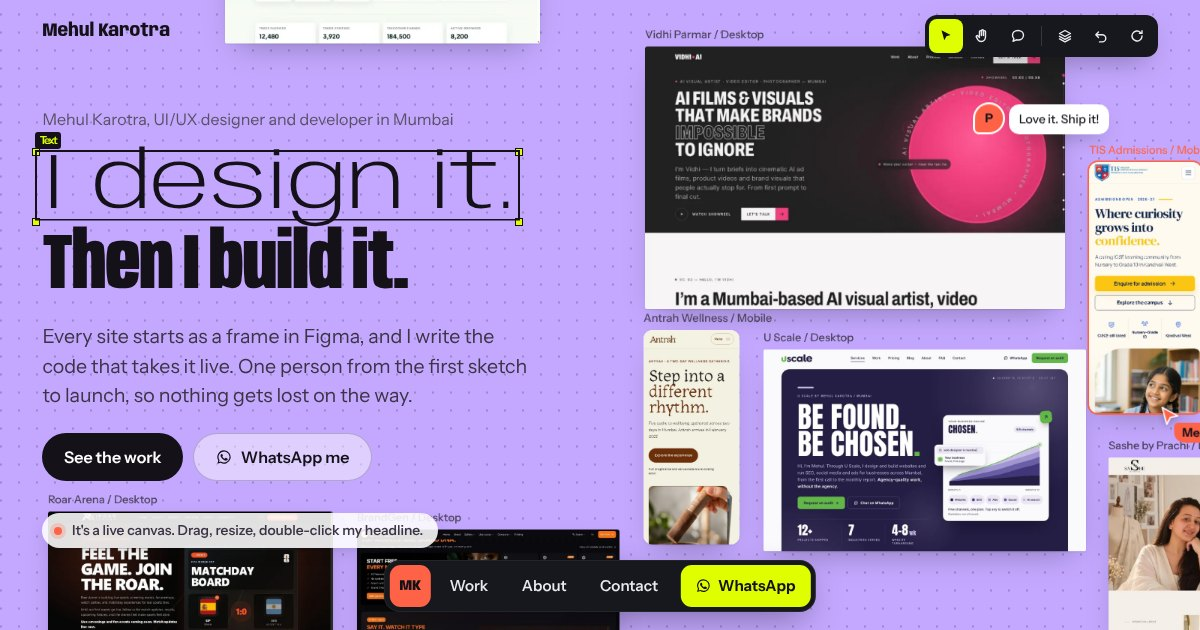
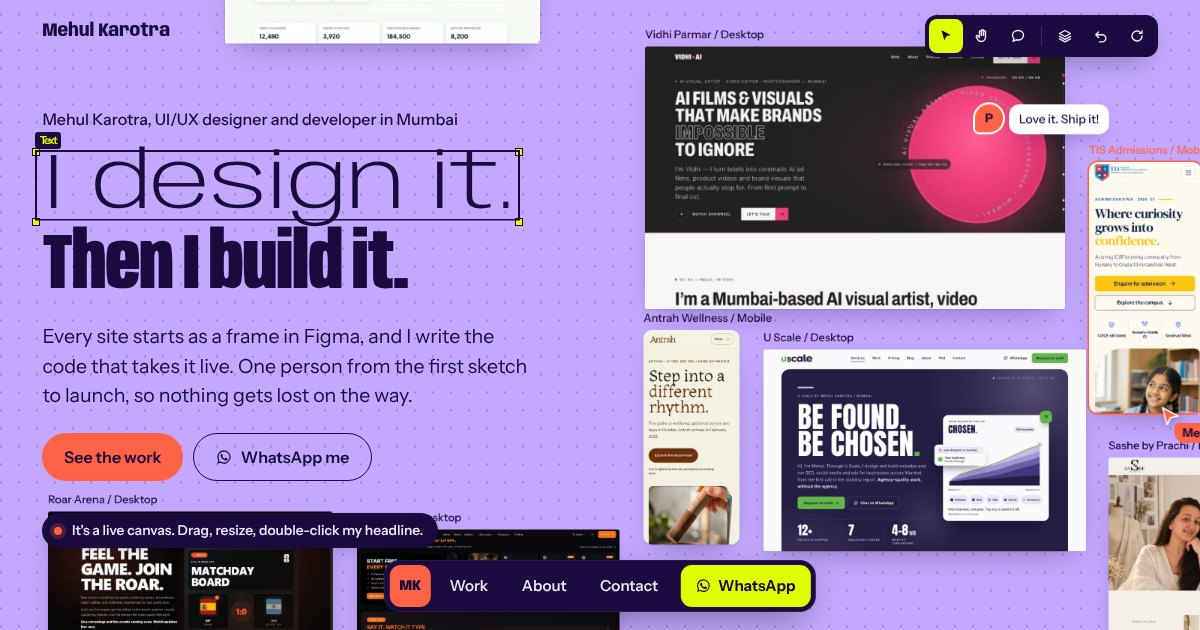
Colour system: deep violet instead of black, more tomato
- Text, lines and dark sections use a deep violet from the lavender family
- Tomato for the main button, project numbers, Selected work, badges,
  hover states and a full tomato contact section
- Every text/background pair checked for contrast (all 6:1 or better)

Claude-Session: https://claude.ai/code/session_01PnNqLetZa1qM7x4YyDRdo5

diff --git a/src/index.css b/src/index.css
@@ -6,13 +6,13 @@
   --tomato: #ff6347;     /* tomato: Mehul's cursor, accents */
   --paper: var(--lav);
   --paper-2: var(--lav-soft);
-  --ink: #141118;
-  --ink-2: #3b3445;
-  --mute: #5a5166;
-  --night: #121016;      /* work and contact */
-  --night-2: #1d1923;
-  --on-night: #f3effa;
-  --mute-n: #b8aecb;
+  --ink: #1a0a3d;        /* deep violet instead of black: text, lines */
+  --ink-2: #3a2770;
+  --mute: #4e3d86;
+  --night: #1b0b40;      /* dark sections, same violet family */
+  --night-2: #26134f;
+  --on-night: #f4efff;
+  --mute-n: #c9b8f5;
   --blue: var(--ink);    /* selection lines */
   --orange: var(--tomato);
   --display: 'Anybody Variable', 'Arial Narrow', system-ui, sans-serif;
@@ -33,7 +33,7 @@ p { margin: 0; }
 h1, h2, h3 { margin: 0; text-wrap: balance; }
 ul { margin: 0; padding: 0; list-style: none; }
 figure { margin: 0; }
-::selection { background: var(--chart); color: var(--ink); }
+::selection { background: var(--tomato); color: var(--ink); }
 :focus-visible { outline: 2px solid var(--tomato); outline-offset: 3px; border-radius: 4px; }
 .ic { width: 1em; height: 1em; flex: none; }
 .wrap { width: 100%; max-width: calc(var(--max) + 2 * var(--gutter)); margin-inline: auto; padding-inline: var(--gutter); }
@@ -50,16 +50,16 @@ figure { margin: 0; }
   font: 600 1rem/1 var(--sans); text-decoration: none; transition: transform 0.25s var(--ease), background-color 0.2s, color 0.2s, border-color 0.2s;
 }
 .btn:active { transform: scale(0.97); }
-.btn--ink { background: var(--ink); color: #fff; }
-.btn--ink:hover { background: #2a2d35; }
-.btn--line { border: 1.5px solid rgb(17 19 24 / 22%); color: var(--ink); background: rgb(255 255 255 / 45%); }
-.btn--line:hover { border-color: var(--ink); background: #fff; }
+.btn--ink { background: var(--tomato); color: var(--ink); }
+.btn--ink:hover { background: #ff7c64; }
+.btn--line { border: 1.5px solid var(--ink); color: var(--ink); background: transparent; }
+.btn--line:hover { border-color: var(--ink); background: var(--ink); color: var(--chart); }
 .btn--light { background: var(--chart); color: var(--ink); }
 .btn--light:hover { background: #ecff5c; }
-.btn--orange { background: var(--tomato); color: var(--ink); }
-.btn--orange:hover { background: #ff7b63; }
-.btn--line-light { border: 1.5px solid rgb(255 255 255 / 26%); color: #fff; }
-.btn--line-light:hover { border-color: #fff; }
+.btn--orange { background: var(--ink); color: var(--chart); }
+.btn--orange:hover { background: #2e1a63; }
+.btn--line-light { border: 1.5px solid var(--ink); color: var(--ink); }
+.btn--line-light:hover { background: var(--ink); color: var(--tomato); }
 
 /* Figma-style selection handles, used on frames and on the headline */
 .h { position: absolute; width: 8px; height: 8px; background: var(--chart); border: 1.5px solid var(--ink); opacity: 0; transition: opacity 0.2s; pointer-events: none; }
@@ -69,11 +69,11 @@ figure { margin: 0; }
 .wordmark { position: absolute; z-index: 20; left: var(--gutter); top: 1.35rem; font: 750 1.15rem/1 var(--display); font-stretch: 86%; color: var(--ink); text-decoration: none; letter-spacing: 0.005em; }
 .tools {
   position: fixed; z-index: 50; left: 50%; bottom: 1.1rem; transform: translateX(-50%); display: flex; align-items: center; gap: 0.2rem; padding: 0.35rem;
-  background: #16181d; border-radius: 16px; box-shadow: 0 12px 36px -10px rgb(0 0 0 / 45%), 0 0 0 1px rgb(255 255 255 / 6%) inset; transition: box-shadow 0.3s;
+  background: var(--night); border-radius: 16px; box-shadow: 0 12px 36px -10px rgb(0 0 0 / 45%), 0 0 0 1px rgb(255 255 255 / 6%) inset; transition: box-shadow 0.3s;
 }
 .tools.on-dark { box-shadow: 0 12px 36px -10px rgb(0 0 0 / 60%), 0 0 0 1px rgb(255 255 255 / 16%) inset; }
 .tools a { display: inline-flex; align-items: center; gap: 0.45rem; height: 2.6rem; padding: 0 0.95rem; border-radius: 11px; color: #e9ebf0; text-decoration: none; font: 550 0.95rem/1 var(--sans); transition: background-color 0.2s; }
-.tools a:hover { background: #2a2d35; }
+.tools a:hover { background: #2e1a63; }
 .tools .tools__mark { width: 2.6rem; padding: 0; justify-content: center; background: var(--tomato); color: var(--ink); font: 800 0.9rem/1 var(--display); font-stretch: 90%; }
 .tools .tools__mark:hover { background: #ff7b63; }
 .tools .tools__wa { background: var(--chart); color: var(--ink); margin-left: 0.25rem; font-weight: 650; }
@@ -84,17 +84,17 @@ figure { margin: 0; }
 .hero__stage {
   position: sticky; top: 0; height: 100svh; overflow: hidden; contain: paint;
   background-color: var(--paper);
-  background-image: radial-gradient(circle at 1px 1px, rgb(20 17 24 / 22%) 1px, transparent 1.3px);
+  background-image: radial-gradient(circle at 1px 1px, rgb(26 10 61 / 22%) 1px, transparent 1.3px);
   background-size: 24px 24px;
 }
 .board { position: absolute; left: 0; top: 0; transform-origin: 0 0; will-change: transform; }
 .fr { position: absolute; animation: frIn 0.9s var(--ease) both; opacity: var(--fade, 1); }
 .fr--hero { opacity: 1; }
 @keyframes frIn { from { opacity: 0; translate: 0 18px; } }
-.fr img { width: 100%; aspect-ratio: 16 / 10; object-fit: cover; object-position: top; border-radius: 3px; background: #fff; box-shadow: 0 1px 2px rgb(17 19 24 / 10%), 0 18px 40px -18px rgb(17 19 24 / 35%); }
+.fr img { width: 100%; aspect-ratio: 16 / 10; object-fit: cover; object-position: top; border-radius: 3px; background: #fff; box-shadow: 0 1px 2px rgb(26 10 61 / 10%), 0 18px 40px -18px rgb(26 10 61 / 35%); }
 .fr--mob img { aspect-ratio: 360 / 805; border-radius: 12px; }
 .fr figcaption, .fr__size { position: absolute; left: 0; font: 500 11px/1 var(--sans); white-space: nowrap; transform: scale(var(--s, 1)); }
-.fr figcaption { bottom: 100%; padding-bottom: 6px; color: #4b4158; transform-origin: 0 100%; }
+.fr figcaption { bottom: 100%; padding-bottom: 6px; color: var(--ink); transform-origin: 0 100%; }
 .fr__size { top: 100%; left: 50%; margin-top: 6px; padding: 3px 5px; border-radius: 3px; background: var(--ink); color: var(--chart); transform-origin: 0 0; translate: -50% 0; opacity: 0; transition: opacity 0.2s; }
 .fr.is-sel img { outline: 2px solid var(--ink); outline-offset: 0; }
 .fr.is-sel figcaption { color: var(--ink); font-weight: 650; }
@@ -102,12 +102,12 @@ figure { margin: 0; }
 .fr .h { transform: scale(var(--s, 1)); }
 .pin { position: absolute; right: -14px; top: 22%; display: flex; align-items: flex-start; gap: 6px; transform: scale(var(--s, 1)); transform-origin: 0 0; animation: frIn 0.8s 1.6s var(--ease) both; }
 .pin b { display: grid; place-items: center; width: 28px; height: 28px; border-radius: 50% 50% 50% 4px; background: var(--tomato); color: var(--ink); font: 700 12px/1 var(--sans); box-shadow: 0 0 0 2px #fff; }
-.pin span { background: #fff; color: var(--ink); font: 500 12px/1.3 var(--sans); padding: 7px 10px; border-radius: 10px; box-shadow: 0 8px 22px -8px rgb(17 19 24 / 35%); white-space: nowrap; }
+.pin span { background: #fff; color: var(--ink); font: 500 12px/1.3 var(--sans); padding: 7px 10px; border-radius: 10px; box-shadow: 0 8px 22px -8px rgb(26 10 61 / 35%); white-space: nowrap; }
 
 .hero__copy { position: absolute; inset: 0 0 auto 0; z-index: 4; padding-top: clamp(5.5rem, 17vh, 10rem); pointer-events: none; will-change: transform, opacity; }
 .hero__copy > * { max-width: min(44rem, 50vw); }
 .hero__copy a { pointer-events: auto; }
-.eyebrow { font-size: 1rem; color: var(--mute); margin-bottom: clamp(1rem, 3vh, 1.8rem); }
+.eyebrow { font-size: 1rem; color: var(--ink); font-weight: 500; margin-bottom: clamp(1rem, 3vh, 1.8rem); }
 .hero .display { font-size: clamp(3rem, 0.4rem + 6vw, 7.2rem); display: grid; justify-items: start; gap: 0.12em; }
 .h-sel { position: relative; font-stretch: 128%; font-weight: 300; letter-spacing: -0.02em; padding: 0 0.08em; margin-left: -0.08em; }
 .h-sel::after { content: ''; pointer-events: none; position: absolute; inset: -0.02em -0.02em 0.02em; border: 2px solid var(--ink); clip-path: inset(0 100% 0 0); transition: clip-path 0.55s var(--ease); }
@@ -116,9 +116,9 @@ figure { margin: 0; }
 .h-badge { position: absolute; left: -1.5px; bottom: 100%; margin-bottom: 0.18rem; font: 600 11px/1 var(--sans); background: var(--ink); color: var(--chart); padding: 3px 5px; border-radius: 3px; opacity: 0; transition: opacity 0.3s 0.45s; }
 .h-sel.is-on .h-badge { opacity: 1; }
 .h-two { font-stretch: 62%; font-weight: 850; }
-.hero .lead { margin: clamp(1.2rem, 3.2vh, 2rem) 0 clamp(1.4rem, 3.6vh, 2.2rem); color: var(--ink-2); max-width: 31rem; }
+.hero .lead { margin: clamp(1.2rem, 3.2vh, 2rem) 0 clamp(1.4rem, 3.6vh, 2.2rem); color: var(--ink); max-width: 31rem; }
 
-.hero__hint { position: absolute; z-index: 4; left: var(--gutter); bottom: 5.1rem; display: flex; align-items: center; gap: 0.6rem; padding: 0.55rem 0.9rem 0.55rem 0.75rem; border-radius: 999px; background: rgb(255 255 255 / 88%); box-shadow: 0 6px 20px -10px rgb(17 19 24 / 35%); font: 550 0.86rem/1.3 var(--sans); color: var(--ink-2); opacity: var(--cur, 1); }
+.hero__hint { position: absolute; z-index: 4; left: var(--gutter); bottom: 5.1rem; display: flex; align-items: center; gap: 0.6rem; padding: 0.55rem 0.9rem 0.55rem 0.75rem; border-radius: 999px; background: var(--ink); box-shadow: 0 6px 20px -10px rgb(26 10 61 / 35%); font: 550 0.86rem/1.3 var(--sans); color: var(--lav-soft); opacity: var(--cur, 1); }
 .hero__hint i { width: 8px; height: 8px; border-radius: 50%; background: var(--orange); box-shadow: 0 0 0 4px rgb(255 99 71 / 22%); }
 .for-touch { display: none; }
 @media (hover: none) { .for-mouse { display: none; } .for-touch { display: inline; } }
@@ -154,19 +154,19 @@ figure { margin: 0; }
 .h-sel.is-editing::after { border-width: 2px; }
 .h-sel.is-editing .h-sel__text { background: rgb(223 255 0 / 55%); }
 .h-two { position: relative; cursor: not-allowed; }
-.h-lock { position: absolute; left: 100%; top: 50%; margin: -0.26em 0 0 0.18em; display: grid; place-items: center; width: 0.52em; height: 0.52em; border-radius: 0.12em; background: #fff; color: var(--ink); box-shadow: 0 4px 14px -6px rgb(17 19 24 / 40%); opacity: 0; scale: 0.7; transition: opacity 0.2s, scale 0.25s var(--ease); }
+.h-lock { position: absolute; left: 100%; top: 50%; margin: -0.26em 0 0 0.18em; display: grid; place-items: center; width: 0.52em; height: 0.52em; border-radius: 0.12em; background: #fff; color: var(--ink); box-shadow: 0 4px 14px -6px rgb(26 10 61 / 40%); opacity: 0; scale: 0.7; transition: opacity 0.2s, scale 0.25s var(--ease); }
 .h-lock .ci { width: 52%; height: 52%; }
 .h-two:hover .h-lock, .h-two:active .h-lock { opacity: 1; scale: 1; }
 
 .ui { position: absolute; z-index: 7; font: 500 12px/1.3 var(--sans); }
-.ctools { top: 0.95rem; right: var(--gutter); display: flex; align-items: center; gap: 2px; padding: 4px; border-radius: 12px; background: #16181d; box-shadow: 0 10px 30px -12px rgb(0 0 0 / 50%); opacity: var(--cur, 1); }
+.ctools { top: 0.95rem; right: var(--gutter); display: flex; align-items: center; gap: 2px; padding: 4px; border-radius: 12px; background: var(--night); box-shadow: 0 10px 30px -12px rgb(0 0 0 / 50%); opacity: var(--cur, 1); }
 .ctools button { display: grid; place-items: center; width: 34px; height: 34px; border: 0; border-radius: 8px; background: transparent; color: #e9ebf0; cursor: pointer; transition: background-color 0.15s; }
-.ctools button:hover { background: #2a2d35; }
+.ctools button:hover { background: #2e1a63; }
 .ctools button.is-on { background: var(--chart); color: var(--ink); }
 .ctools__sep { width: 1px; height: 20px; margin: 0 4px; background: rgb(255 255 255 / 14%); }
 .is-scrolled .ui { visibility: hidden; }
 
-.panel { width: 248px; background: #fff; color: var(--ink); border-radius: 12px; box-shadow: 0 1px 0 rgb(17 19 24 / 6%), 0 18px 44px -14px rgb(17 19 24 / 40%); overflow: hidden; animation: panelIn 0.25s var(--ease) both; }
+.panel { width: 248px; background: #fff; color: var(--ink); border-radius: 12px; box-shadow: 0 1px 0 rgb(26 10 61 / 6%), 0 18px 44px -14px rgb(26 10 61 / 40%); overflow: hidden; animation: panelIn 0.25s var(--ease) both; }
 @keyframes panelIn { from { opacity: 0; translate: 0 -6px; } }
 .panel button { font: inherit; color: inherit; cursor: pointer; }
 .panel__head { display: flex; align-items: center; justify-content: space-between; padding: 10px 10px 10px 14px; border-bottom: 1px solid #ecebe8; font-weight: 650; font-size: 12.5px; }
@@ -193,16 +193,16 @@ figure { margin: 0; }
 .props__grid b { font-weight: 550; font-variant-numeric: tabular-nums; background: #f4f3f0; border-radius: 6px; padding: 5px 8px; }
 .seg { display: grid; grid-template-columns: 1fr 1fr; gap: 2px; margin: 10px 14px 0; padding: 2px; background: #f1f0ed; border-radius: 8px; }
 .seg button { display: inline-flex; align-items: center; justify-content: center; gap: 6px; height: 30px; border: 0; border-radius: 6px; background: transparent; color: var(--mute); }
-.seg button.is-on { background: #fff; color: var(--ink); box-shadow: 0 1px 3px rgb(17 19 24 / 14%); }
+.seg button.is-on { background: #fff; color: var(--ink); box-shadow: 0 1px 3px rgb(26 10 61 / 14%); }
 .props__row { display: grid; grid-template-columns: 1fr 1fr; gap: 6px; padding: 8px 14px 0; }
 .props__row button { display: inline-flex; align-items: center; justify-content: center; gap: 6px; height: 30px; border: 1px solid #e6e4df; border-radius: 8px; background: #fff; }
 .props__row button:hover { border-color: var(--ink); }
 .props__live { display: block; margin: 10px 14px 14px; padding: 9px; border-radius: 8px; background: var(--ink); color: var(--chart); text-align: center; font-weight: 650; text-decoration: none; }
-.props__live:hover { background: #2c2633; }
+.props__live:hover { background: #2e1a63; }
 
 .cnote { display: flex; align-items: flex-start; gap: 8px; translate: -4px -34px; animation: panelIn 0.25s var(--ease) both; }
-.cnote__pin { display: grid; place-items: center; width: 32px; height: 32px; border-radius: 50% 50% 50% 4px; background: var(--chart); color: var(--ink); font: 700 11px/1 var(--sans); box-shadow: 0 0 0 2px #fff, 0 8px 20px -8px rgb(17 19 24 / 50%); flex: none; }
-.cnote__box { display: flex; align-items: center; gap: 6px; padding: 6px; background: #fff; border-radius: 12px; box-shadow: 0 18px 44px -14px rgb(17 19 24 / 45%); }
+.cnote__pin { display: grid; place-items: center; width: 32px; height: 32px; border-radius: 50% 50% 50% 4px; background: var(--chart); color: var(--ink); font: 700 11px/1 var(--sans); box-shadow: 0 0 0 2px #fff, 0 8px 20px -8px rgb(26 10 61 / 50%); flex: none; }
+.cnote__box { display: flex; align-items: center; gap: 6px; padding: 6px; background: #fff; border-radius: 12px; box-shadow: 0 18px 44px -14px rgb(26 10 61 / 45%); }
 .cnote__box input { width: min(240px, 52vw); border: 0; outline: none; font: 500 14px/1.3 var(--sans); padding: 8px 8px; background: transparent; color: var(--ink); }
 .cnote__box button { display: grid; place-items: center; width: 32px; height: 32px; border: 0; border-radius: 8px; background: var(--ink); color: var(--chart); cursor: pointer; }
 .cnote__box button:disabled { background: #dcd3ea; color: #fff; cursor: default; }
@@ -217,12 +217,13 @@ figure { margin: 0; }
 .mp__tag { position: absolute; left: 14px; top: 17px; padding: 4px 8px; border-radius: 4px 10px 10px 10px; font: 650 12px/1 var(--sans); color: var(--ink); background: var(--tomato); white-space: nowrap; }
 .mp--you { transition: opacity 0.2s; opacity: calc(var(--on, 0) * var(--cur, 1)); }
 .mp--you .mp__tag { background: var(--chart); color: var(--ink); left: 12px; top: -22px; border-radius: 10px 10px 10px 4px; }
-.mp__bubble { position: absolute; left: 14px; top: 42px; padding: 8px 12px; border-radius: 4px 14px 14px 14px; background: #fff; color: var(--ink); font: 550 13px/1.3 var(--sans); white-space: nowrap; box-shadow: 0 10px 28px -10px rgb(17 19 24 / 40%); transform-origin: 0 0; scale: 0.6; opacity: 0; transition: scale 0.3s var(--ease), opacity 0.2s; }
+.mp__bubble { position: absolute; left: 14px; top: 42px; padding: 8px 12px; border-radius: 4px 14px 14px 14px; background: #fff; color: var(--ink); font: 550 13px/1.3 var(--sans); white-space: nowrap; box-shadow: 0 10px 28px -10px rgb(26 10 61 / 40%); transform-origin: 0 0; scale: 0.6; opacity: 0; transition: scale 0.3s var(--ease), opacity 0.2s; }
 .mp.is-talk .mp__bubble, .mp--static .mp__bubble { scale: 1; opacity: 1; }
 
 /* ------------------------------------------------------------------ work: chapters */
 .work { position: relative; background: var(--night); color: var(--on-night); }
 .work__intro { padding-block: clamp(6rem, 20vh, 11rem) clamp(2rem, 8vh, 5rem); }
+.work__intro .h2 { color: var(--tomato); }
 .work__intro .lead { color: var(--mute-n); margin-top: 1.1rem; }
 
 .ch { position: relative; height: 210svh; }
@@ -238,7 +239,7 @@ figure { margin: 0; }
 .ch--flip .ch__glow { background: radial-gradient(55% 70% at 30% 55%, color-mix(in srgb, var(--accent) 30%, transparent), transparent 70%); }
 .ch__copy { position: relative; z-index: 2; max-width: 30rem; }
 .ch__num { font: 500 0.92rem/1 var(--sans); color: var(--mute-n); font-variant-numeric: tabular-nums; margin-bottom: 1.3rem; }
-.ch__num span { color: var(--chart); font-weight: 700; }
+.ch__num span { color: var(--tomato); font-weight: 700; }
 .ch__title {
   font-family: var(--display); font-weight: 820; font-size: clamp(2.6rem, 0.8rem + 4vw, 5.4rem); line-height: 0.92; letter-spacing: -0.01em;
   font-stretch: calc(56% + var(--t, 0) * 34%); color: #fff;
@@ -252,14 +253,14 @@ figure { margin: 0; }
 
 .ch__media { position: relative; z-index: 1; width: 100%; max-width: 940px; justify-self: center; perspective: 1600px; --bw: 1; --rd: 1.4; --sh: 520px; }
 .browser {
-  position: relative; width: calc(var(--bw) * 100%); margin-inline: auto; border-radius: 12px; background: #0f1426; border: 1px solid rgb(255 255 255 / 12%);
+  position: relative; width: calc(var(--bw) * 100%); margin-inline: auto; border-radius: 12px; background: #160935; border: 1px solid rgb(255 255 255 / 12%);
   box-shadow: 0 50px 90px -40px rgb(0 0 0 / 80%), 0 0 0 6px rgb(255 255 255 / 3%);
   transform-origin: 50% 100%;
   transform: translate3d(0, calc((1 - var(--t, 0)) * 60px), 0) rotateX(calc((1 - var(--t, 0)) * 14deg)) scale(calc(0.93 + var(--t, 0) * 0.07));
   transition: width 0.6s var(--ease);
 }
 .is-dragging .browser { transition: none; }
-.browser__bar { display: flex; align-items: center; gap: 0.4rem; height: 2.6rem; padding: 0 0.5rem 0 0.9rem; background: #161c31; border-bottom: 1px solid rgb(255 255 255 / 8%); border-radius: 12px 12px 0 0; }
+.browser__bar { display: flex; align-items: center; gap: 0.4rem; height: 2.6rem; padding: 0 0.5rem 0 0.9rem; background: #241150; border-bottom: 1px solid rgb(255 255 255 / 8%); border-radius: 12px 12px 0 0; }
 .browser__bar > i { width: 10px; height: 10px; border-radius: 50%; background: rgb(255 255 255 / 18%); flex: none; }
 .browser__bar > span { margin-left: 0.6rem; flex: 1; min-width: 0; max-width: 22rem; font: 500 0.78rem/1.6rem var(--sans); color: var(--mute-n); background: rgb(255 255 255 / 6%); border-radius: 6px; padding: 0 0.7rem; white-space: nowrap; overflow: hidden; text-overflow: ellipsis; }
 .vseg { display: flex; gap: 2px; margin-left: auto; padding: 2px; border-radius: 8px; background: rgb(255 255 255 / 7%); flex: none; }
@@ -275,7 +276,7 @@ figure { margin: 0; }
 .screen__mob { opacity: 0; transform: translate3d(0, calc(var(--sc, 0) * max(0, 1 - 0.625 / (var(--bw) * 2.236)) * -100%), 0); }
 .is-mob .screen__desk { opacity: 0; }
 .is-mob .screen__mob { opacity: 1; }
-.grip { position: absolute; right: -15px; top: 50%; width: 22px; height: 64px; margin-top: -32px; display: flex; align-items: center; justify-content: center; gap: 3px; border: 1px solid rgb(255 255 255 / 22%); border-radius: 8px; background: #1d2440; cursor: ew-resize; touch-action: none; box-shadow: 0 8px 20px -8px rgb(0 0 0 / 60%); transition: background-color 0.2s, border-color 0.2s; }
+.grip { position: absolute; right: -15px; top: 50%; width: 22px; height: 64px; margin-top: -32px; display: flex; align-items: center; justify-content: center; gap: 3px; border: 1px solid rgb(255 255 255 / 22%); border-radius: 8px; background: #2e1a63; cursor: ew-resize; touch-action: none; box-shadow: 0 8px 20px -8px rgb(0 0 0 / 60%); transition: background-color 0.2s, border-color 0.2s; }
 .grip i { width: 2px; height: 22px; border-radius: 2px; background: rgb(255 255 255 / 55%); }
 .grip:hover, .is-dragging .grip { background: var(--chart); border-color: var(--chart); }
 .grip:hover i, .is-dragging .grip i { background: var(--ink); }
@@ -283,7 +284,7 @@ figure { margin: 0; }
 .ch__tip::after { content: ' →'; color: var(--chart); }
 .is-mob .phone { opacity: 0 !important; }
 .phone {
-  position: absolute; right: -3%; bottom: -9%; width: clamp(118px, 12.5vw, 205px); padding: 7px; border-radius: 28px; background: #0a0d18;
+  position: absolute; right: -3%; bottom: -9%; width: clamp(118px, 12.5vw, 205px); padding: 7px; border-radius: 28px; background: #12062c;
   border: 1px solid rgb(255 255 255 / 16%); box-shadow: 0 40px 70px -30px rgb(0 0 0 / 85%);
   transform: translate3d(0, calc((1 - var(--ph, 0)) * 55%), 0) rotate(calc((1 - var(--ph, 0)) * 7deg)); opacity: var(--ph, 0);
 }
@@ -302,36 +303,36 @@ figure { margin: 0; }
 .card__meta { display: flex; flex-wrap: wrap; align-items: center; gap: 0.4rem 0.6rem; font-size: 0.9rem; color: var(--mute-n); }
 .card__text { font-size: 0.98rem; line-height: 1.5; color: #c9cfdd; }
 .card:hover .card__img img { transform: scale(1.045); }
-.card:hover .card__name { color: var(--chart); }
+.card:hover .card__name { color: var(--tomato); }
 
 /* ------------------------------------------------------------------ light sections */
-.canvas-bg { background-color: var(--lav-soft); background-image: radial-gradient(circle at 1px 1px, rgb(20 17 24 / 16%) 1px, transparent 1.3px); background-size: 24px 24px; }
+.canvas-bg { background-color: var(--lav-soft); background-image: radial-gradient(circle at 1px 1px, rgb(26 10 61 / 16%) 1px, transparent 1.3px); background-size: 24px 24px; }
 .sec-head { display: grid; gap: 1rem; }
 .sec-head .lead { color: var(--ink-2); }
 .sketch { padding-block: clamp(5rem, 14vh, 9rem); }
 .sketch__grid { margin-top: clamp(2.8rem, 7vh, 4.5rem); display: grid; grid-template-columns: repeat(2, minmax(0, 1fr)); gap: clamp(2.6rem, 5vw, 4rem) clamp(1.4rem, 3vw, 3rem); }
 .sk { position: relative; display: grid; gap: 0.75rem; text-decoration: none; }
 .sk__label { font: 500 12px/1 var(--sans); color: var(--mute); transition: color 0.2s; }
-.sk__img { display: block; aspect-ratio: 16 / 10; overflow: hidden; border-radius: 4px; background: #fff; box-shadow: 0 1px 2px rgb(17 19 24 / 10%), 0 26px 50px -30px rgb(17 19 24 / 45%); outline: 1.5px solid transparent; transition: outline-color 0.2s; }
+.sk__img { display: block; aspect-ratio: 16 / 10; overflow: hidden; border-radius: 4px; background: #fff; box-shadow: 0 1px 2px rgb(26 10 61 / 10%), 0 26px 50px -30px rgb(26 10 61 / 45%); outline: 1.5px solid transparent; transition: outline-color 0.2s; }
 .sk__img img { width: 100%; height: 100%; object-fit: cover; object-position: top; transition: transform 0.7s var(--ease); }
 .sk__name { display: inline-flex; align-items: center; gap: 0.45rem; font: 800 1.6rem/1 var(--display); font-stretch: 80%; margin-top: 0.4rem; }
 .sk__text { color: var(--ink-2); max-width: 32rem; }
-.sk:hover .sk__img { outline-color: var(--ink); }
-.sk:hover .sk__label { color: var(--ink); }
+.sk:hover .sk__img { outline-color: var(--tomato); outline-width: 3px; }
+.sk:hover .sk__label { color: var(--ink); font-weight: 650; }
 .sk:hover img { transform: scale(1.03); }
 
 .svc { background: var(--chart); padding-block: clamp(5rem, 14vh, 9rem) clamp(4rem, 10vh, 6rem); }
 .svc__list { margin-top: clamp(2rem, 5vh, 3rem); border-top: 1.5px solid var(--ink); }
-.svc__list li { position: relative; display: grid; grid-template-columns: minmax(0, 1fr) minmax(0, 1fr); gap: 1rem 3rem; align-items: center; padding-block: clamp(1.2rem, 3vh, 2rem); border-bottom: 1px solid rgb(17 19 24 / 16%); }
+.svc__list li { position: relative; display: grid; grid-template-columns: minmax(0, 1fr) minmax(0, 1fr); gap: 1rem 3rem; align-items: center; padding-block: clamp(1.2rem, 3vh, 2rem); border-bottom: 1px solid rgb(26 10 61 / 16%); }
 .svc__list h3 { font: 850 clamp(3.4rem, 1rem + 7vw, 8.4rem)/0.86 var(--display); font-stretch: 60%; letter-spacing: -0.01em; transition: font-stretch 0.6s var(--ease), color 0.3s; }
-.svc__list li:hover h3 { font-stretch: 112%; color: transparent; -webkit-text-stroke: 2px var(--ink); }
+.svc__list li:hover h3 { font-stretch: 112%; color: var(--tomato); -webkit-text-stroke: 2px var(--ink); }
 .svc__list p { color: var(--ink-2); max-width: 30rem; }
-.svc__k { margin-top: 0.6rem; font-size: 0.92rem; color: #4b4d1c !important; }
+.svc__k { margin-top: 0.6rem; font-size: 0.92rem; color: var(--ink-2) !important; }
 .svc__us { margin-top: clamp(2.2rem, 6vh, 3.5rem); font-size: clamp(1.15rem, 1rem + 0.5vw, 1.45rem); line-height: 1.45; max-width: 44rem; }
 .svc__us a { display: inline-flex; align-items: center; gap: 0.25rem; font-weight: 700; text-decoration-thickness: 1.5px; text-underline-offset: 0.2em; }
 
 .about { background: var(--paper-2); padding-block: clamp(3rem, 8vh, 5rem) clamp(6rem, 16vh, 10rem); }
-.about__grid { display: grid; grid-template-columns: minmax(0, 4fr) minmax(0, 6fr); gap: clamp(2.5rem, 6vw, 7rem); align-items: start; border-top: 1px solid rgb(17 19 24 / 16%); padding-top: clamp(3rem, 8vh, 5rem); }
+.about__grid { display: grid; grid-template-columns: minmax(0, 4fr) minmax(0, 6fr); gap: clamp(2.5rem, 6vw, 7rem); align-items: start; border-top: 1px solid rgb(26 10 61 / 16%); padding-top: clamp(3rem, 8vh, 5rem); }
 .about__photo { position: relative; max-width: 30rem; }
 .about__photo figcaption { font: 600 12px/1 var(--sans); color: var(--ink); margin-bottom: 7px; }
 .about__photo img { width: 100%; aspect-ratio: 1; object-fit: cover; outline: 2px solid var(--ink); }
@@ -339,25 +340,27 @@ figure { margin: 0; }
 .about__photo .h1, .about__photo .h2 { top: calc(12px + 7px - 4px); }
 .about .lead { margin-top: 1.2rem; color: var(--ink-2); }
 .about__p { margin-top: 1rem; color: var(--ink-2); max-width: 36rem; }
-.journey { margin-top: 2.2rem; border-top: 1px solid rgb(17 19 24 / 16%); max-width: 40rem; }
-.journey li { display: grid; grid-template-columns: 1fr auto; gap: 0.2rem 1rem; padding-block: 0.95rem; border-bottom: 1px solid rgb(17 19 24 / 16%); }
+.journey { margin-top: 2.2rem; border-top: 1px solid rgb(26 10 61 / 16%); max-width: 40rem; }
+.journey li { display: grid; grid-template-columns: 1fr auto; gap: 0.2rem 1rem; padding-block: 0.95rem; border-bottom: 1px solid rgb(26 10 61 / 16%); }
 .journey .org { font-weight: 650; display: grid; gap: 0.15rem; }
 .journey .org small { font-weight: 400; font-size: 0.9rem; color: var(--mute); }
 .journey .role { color: var(--ink-2); display: inline-flex; align-items: baseline; gap: 0.5rem; text-align: right; }
-.journey b { font: 650 0.72rem/1 var(--sans); background: var(--chart); color: var(--ink); padding: 0.3rem 0.5rem; border-radius: 999px; }
+.journey b { font: 650 0.72rem/1 var(--sans); background: var(--tomato); color: var(--ink); padding: 0.3rem 0.5rem; border-radius: 999px; }
 .edu { margin-top: 1.2rem; font-size: 0.95rem; color: var(--mute); }
 
 /* ------------------------------------------------------------------ contact */
-.contact { background: var(--night); color: var(--on-night); padding-top: clamp(6rem, 20vh, 12rem); }
-.contact__title { font-size: clamp(3.6rem, 0.6rem + 9.6vw, 10.5rem); font-stretch: 116%; color: var(--chart); }
-.contact .lead { margin-top: 1.4rem; color: #c9cfdd; }
-.mail { display: inline-block; margin: 2rem 0 2.2rem; font: 750 clamp(1.4rem, 0.3rem + 4.8vw, 4.2rem)/1.05 var(--display); font-stretch: 84%; color: #fff; text-decoration: none; border-bottom: 2px solid rgb(255 255 255 / 30%); padding-bottom: 0.12em; transition: color 0.2s, border-color 0.2s; }
+.contact { background: var(--tomato); color: var(--ink); padding-top: clamp(6rem, 20vh, 12rem); }
+.contact__title { font-size: clamp(3.6rem, 0.6rem + 9.6vw, 10.5rem); font-stretch: 116%; color: var(--ink); }
+.contact .lead { margin-top: 1.4rem; color: var(--ink); font-weight: 500; }
+.mail { display: inline-block; margin: 2rem 0 2.2rem; font: 750 clamp(1.4rem, 0.3rem + 4.8vw, 4.2rem)/1.05 var(--display); font-stretch: 84%; color: var(--ink); text-decoration: none; border-bottom: 3px solid var(--ink); padding-bottom: 0.12em; transition: color 0.2s, border-color 0.2s; }
 .mail span { white-space: nowrap; }
-.mail:hover { color: var(--chart); border-color: var(--chart); }
+.mail:hover { color: #fff; border-color: #fff; }
 .contact__btns { align-items: center; }
 .contact__wa { position: relative; display: inline-flex; }
 .mp--static { left: 78%; top: 72%; opacity: 1; z-index: 2; }
-.foot { display: flex; flex-wrap: wrap; justify-content: space-between; gap: 0.5rem 2rem; margin-top: clamp(5rem, 16vh, 9rem); padding-block: 1.5rem 6.5rem; border-top: 1px solid rgb(255 255 255 / 10%); font-size: 0.9rem; color: var(--mute-n); }
+.contact .mp__tag { background: var(--ink); color: var(--chart); }
+.contact .mp__bubble { background: var(--ink); color: var(--lav-soft); }
+.foot { display: flex; flex-wrap: wrap; justify-content: space-between; gap: 0.5rem 2rem; margin-top: clamp(5rem, 16vh, 9rem); padding-block: 1.5rem 6.5rem; border-top: 1.5px solid rgb(26 10 61 / 35%); font-size: 0.9rem; color: var(--ink); }
 
 /* ------------------------------------------------------------------ responsive */
 @media (max-width: 1100px) {

diff --git a/src/App.tsx b/src/App.tsx
@@ -134,7 +134,7 @@ function Contact() {
           <span className="contact__wa">
             <a className="btn btn--orange" href={contact.whatsapp} target="_blank" rel="noopener"><WA />WhatsApp {contact.phone}</a>
             <span className="mp mp--me mp--static" aria-hidden="true">
-              <svg viewBox="0 0 20 22" width="20" height="22"><path d="M2 1.6 17.4 10 10.2 11.6 6.6 18.6Z" fill="#FF6347" stroke="#fff" strokeWidth="1.4" strokeLinejoin="round" /></svg>
+              <svg viewBox="0 0 20 22" width="20" height="22"><path d="M2 1.6 17.4 10 10.2 11.6 6.6 18.6Z" fill="#1A0A3D" stroke="#fff" strokeWidth="1.4" strokeLinejoin="round" /></svg>
               <span className="mp__tag">Mehul</span><span className="mp__bubble">This one goes straight to me.</span>
             </span>
           </span>
